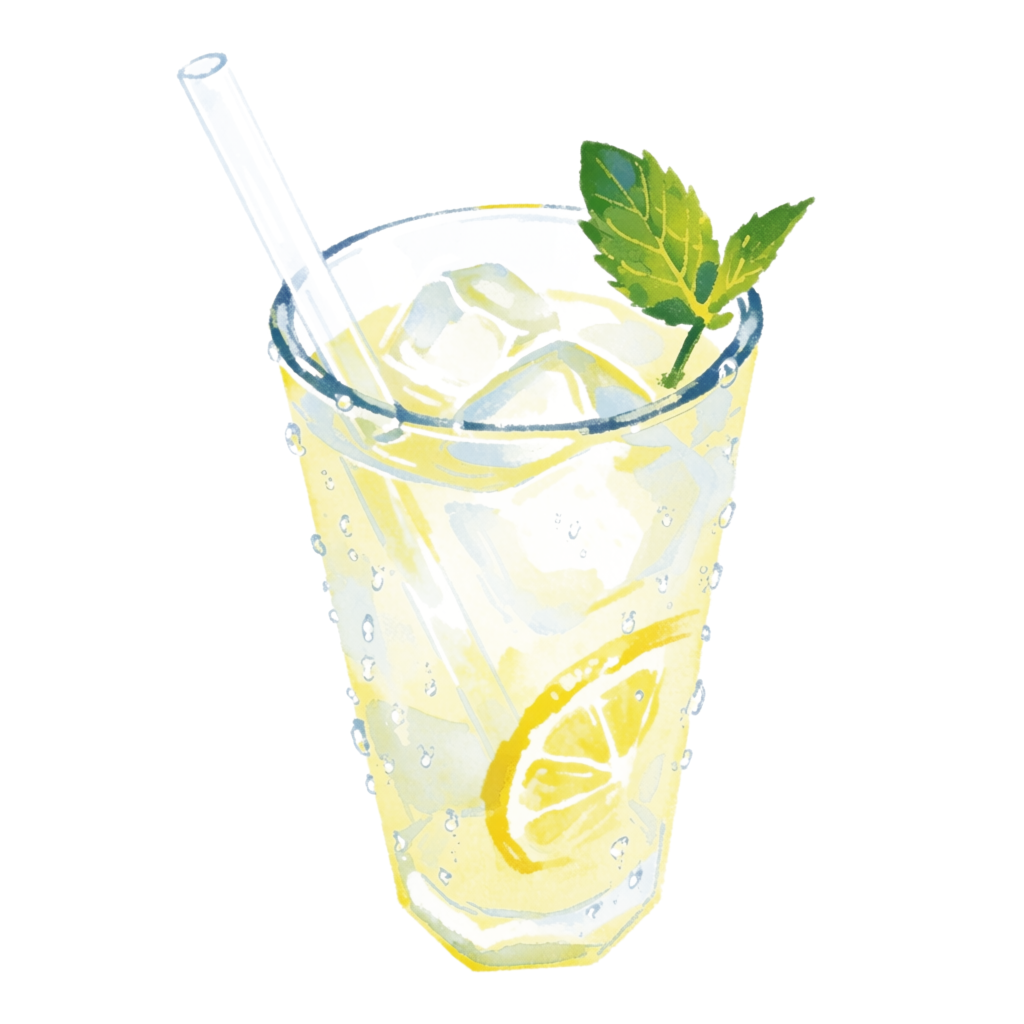
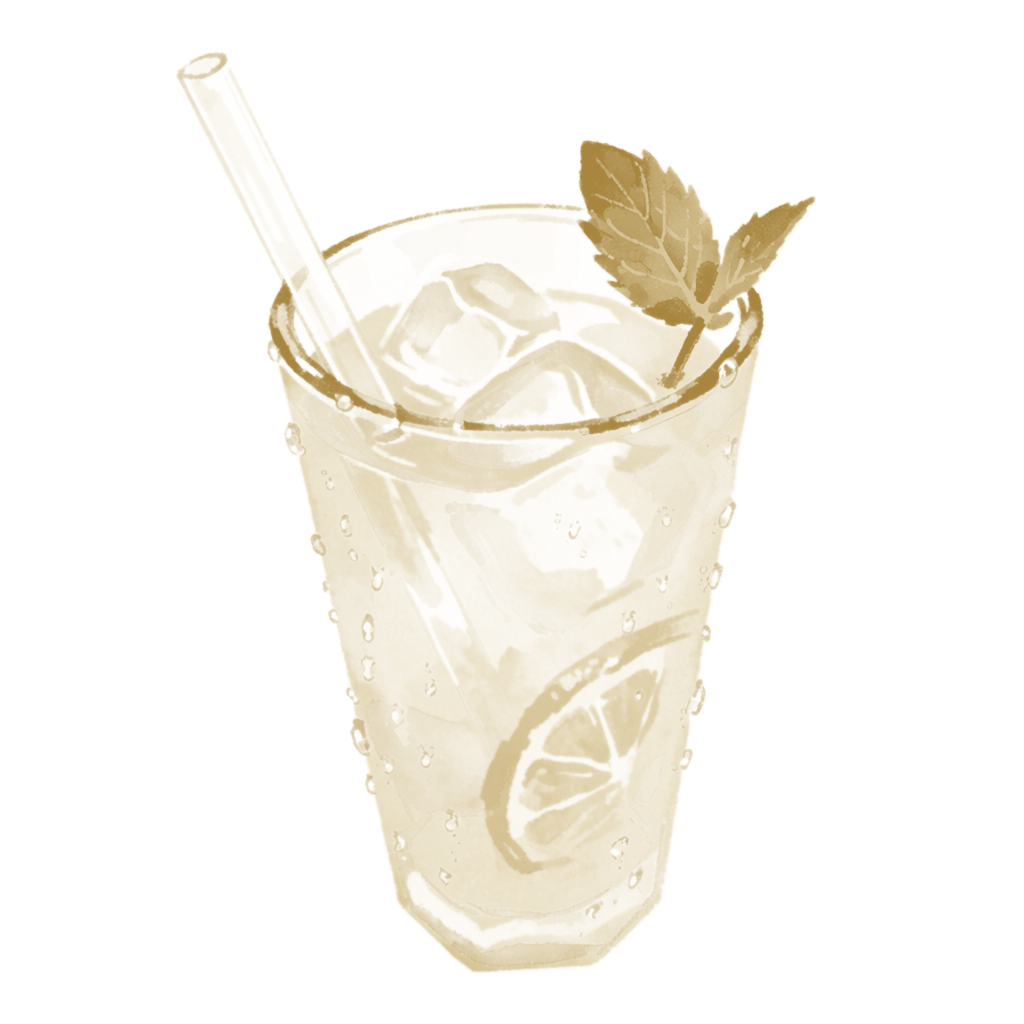
The seal's drink — gold like the ring, one per season (#54)
The drink inside the sidebar seal was a coloured illustration rendered with
mix-blend-mode: multiply — on the dark green seal that crushes it to a dark
smudge. All nine coffee drawings are now gold duotones (luminance mapped to
a ramp between the ring's #A8863F and a pale gold, per-image range stretch
so each drawing keeps its detail), and the multiply is gone.

- .lavish/assets/coffee-*.png — recoloured (the tracked source of truth;
  dist copies are build output)
- component: the brew style drops mixBlendMode
- evidence: the seal before/after, and all four season drinks on the seal's
  green (winter cocoa, blossom tea, iced lemon-mint, spiced latte)

Verified: the four seasons map correctly (September -> the spiced latte),
each file's opaque pixels average gold, the live seal renders a legible gold
drink, the ring/rim/geometry untouched. 59 tests green.

diff --git a/pipeline/design/app.html b/pipeline/design/app.html
@@ -1304,8 +1304,10 @@ class Component extends DCLogic {
       :'Empty. Mark something read and it arrives.';
 
     const brew=(function(){const b=BREWS.filter(x=>x.m.indexOf(new Date().getMonth())>-1)[0]||BREWS[3];
+      /* #54: the drinks are gold duotones now — no multiply (it crushed the art
+         into the dark green seal and made it invisible) */
       return {...b,style:{position:'absolute',left:'50%',top:'50%',transform:'translate(-50%,-50%)',width:'104px',height:'104px',
-        backgroundImage:'url("'+b.img+'")',backgroundSize:'contain',backgroundRepeat:'no-repeat',backgroundPosition:'center',mixBlendMode:'multiply'}};})();
+        backgroundImage:'url("'+b.img+'")',backgroundSize:'contain',backgroundRepeat:'no-repeat',backgroundPosition:'center'}};})();
 
     return {
       /* nav + shell */
